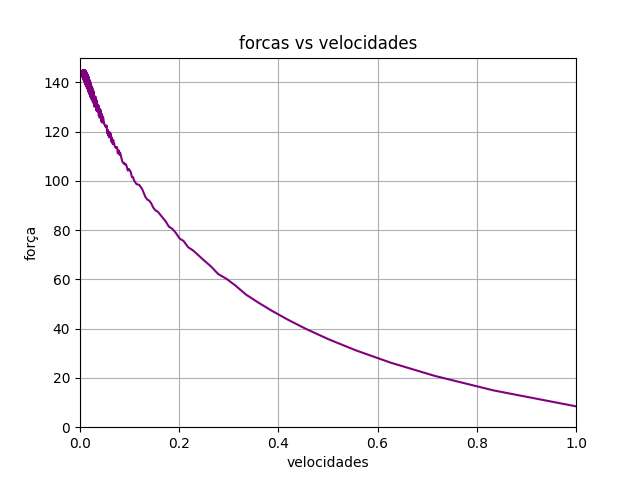
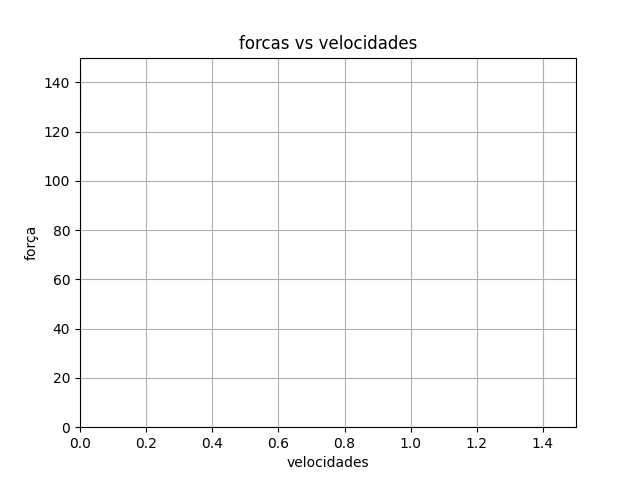
add modificaçoes

diff --git a/src/pages/Page_Calor/Verifica_A.jsx b/src/pages/Page_Calor/Verifica_A.jsx
@@ -1,9 +1,13 @@
 import React, { useState } from 'react';
+import InfoIcon from '../../components/Info';
+
+import coeficiente_angular from '../../assets/img/coeficiente_angular.png'
 
 function Verifica_A() {
   const [valorA, setValorA] = useState('');
   const [mensagem, setMensagem] = useState('');
   const [mensagemCor, setMensagemCor] = useState('');
+  
 
   const handleSubmit = (event) => {
     event.preventDefault();
@@ -25,7 +29,7 @@ function Verifica_A() {
       setMensagemCor('red');  // Define cor vermelha para mensagem de erro
     } else if (dentroMargemA) {
       setMensagem('Resposta correta ou aproximada: a = 37.24');
-      setMensagemCor('green');  // Define cor verde para resposta correta
+      setMensagemCor('#00ec36');  // Define cor verde para resposta correta
     } else {
       setMensagem('Resposta incorreta. Tente novamente.');
       setMensagemCor('red');  // Define cor vermelha para resposta incorreta
@@ -35,12 +39,13 @@ function Verifica_A() {
   return (
     <div style={{display: 'flex', flexDirection: 'column', justifyContent: 'center', height: '100%'}}>
       <div>
-        <form onSubmit={handleSubmit}>
+        <form style={{display: 'flex', flexDirection: 'column'}} onSubmit={handleSubmit}>
           <h2>Responda:</h2>
           <p style={{textIndent: '2em'}} htmlFor="campoA">
             Utilizando a fórmula do "Calor de Encurtamento", volte ao laboratório e, com os dados numéricos fornecidos, determine o valor da constante 𝑎. Essa constante representa a relação entre o encurtamento muscular e o calor liberado durante a contração.
           </p>
-          <div style={{ display: 'flex', width: '100%' }}>
+
+          <div style={{display: 'flex'}}> 
             <input
               style={{ width: '60%' }}
               type="text"
@@ -49,8 +54,18 @@ function Verifica_A() {
               onChange={(e) => setValorA(e.target.value)}
               placeholder="Digite o valor de a!"
             />
+
+          <InfoIcon style={{right: '22%', top: '33%'}}>
+          <div style={{display: 'flex', flexDirection: 'column', alignItems: 'center'}}>
+            <p style={{margin: '0px'}}>Coeficente angular m: </p>
+            <div className="img-fundoBranco" style={{alignItems: 'center', width: '100%', margin: '3%'}}>
+              <img src={coeficiente_angular} alt="coeficiente_angular" style={{ maxWidth: '50%', maxHeight: '100%' }} />
+            </div>
           </div>
-          <div style={{display: 'flex', marginTop: '10px'}}>
+          </InfoIcon>
+
+          </div>
+          <div style={{display: 'flex', marginTop: '10px', alignItems: 'center'}}>
             <div>
               <button type="submit">Enviar</button>
             </div>

diff --git a/src/pages/Page_Taxa_Energia/Verifica_BP0.jsx b/src/pages/Page_Taxa_Energia/Verifica_BP0.jsx
@@ -11,7 +11,7 @@ function Verifica_BP0() {
     event.preventDefault();
 
     // Valores esperados para 'a'
-    const valorEsperadoB = 0.335;
+    const valorEsperadoB = -0.335;
     const valorEsperadoP0 = 144.90;
 
     // Margem de erro
@@ -29,8 +29,8 @@ function Verifica_BP0() {
       setMensagem('Por favor, insira valores numéricos válidos!');
       setMensagemCor('red');  // Define cor vermelha para mensagem de erro
     } else if (dentroMargemA && dentroMargemP0) {
-      setMensagem('Resposta corretas ou aproximadas: b = 0.335 e P0 = 144.90');
-      setMensagemCor('green');  // Define cor verde para resposta correta
+      setMensagem('Resposta corretas ou aproximadas: 𝑏 = 0.335 e 𝑃0 = 144.90');
+      setMensagemCor('#00ec36');  // Define cor verde para resposta correta
     } else {
       setMensagem('Resposta incorreta. Tente novamente.');
       setMensagemCor('red');  // Define cor vermelha para resposta incorreta
@@ -65,7 +65,7 @@ function Verifica_BP0() {
               placeholder="Digite o valor de 𝑃0!"
             />
           </div>
-          <div style={{display: 'flex', marginTop: '10px'}}>
+          <div style={{display: 'flex', marginTop: '10px', alignItems: 'center'}}>
             <div>
               <button type="submit">Enviar</button>
             </div>

diff --git a/src/pages/Page_Forca_velocidade/Verifica_K.jsx b/src/pages/Page_Forca_velocidade/Verifica_K.jsx
@@ -8,8 +8,7 @@ function Verifica_K() {
   const handleSubmit = (event) => {
     event.preventDefault();
 
-    // Valores esperados para 'a'
-    const valorEsperadoK = 47.14;
+    const valorEsperadoK = 61.017879999609;
 
     // Margem de erro
     const margemErro = 0.5;
@@ -24,8 +23,8 @@ function Verifica_K() {
       setMensagem('Por favor, insira valores numéricos válidos!');
       setMensagemCor('red');  // Define cor vermelha para mensagem de erro
     } else if (dentroMargemK) {
-      setMensagem('Resposta correta ou aproximada: a = 37.24');
-      setMensagemCor('green');  // Define cor verde para resposta correta
+      setMensagem('Resposta correta ou aproximada: 𝑘 = 61.017879999609');
+      setMensagemCor('#00ec36');  // Define cor verde para resposta correta
     } else {
       setMensagem('Resposta incorreta. Tente novamente.');
       setMensagemCor('red');  // Define cor vermelha para resposta incorreta
@@ -50,7 +49,7 @@ function Verifica_K() {
               placeholder="Digite o valor de 𝑘!"
             />
           </div>
-          <div style={{display: 'flex', marginTop: '10px'}}>
+          <div style={{display: 'flex', marginTop: '10px', alignItems: 'center'}}>
             <div>
               <button type="submit">Enviar</button>
             </div>

diff --git a/src/pages/Page_Forca_Comprimento/Verifica_Alpha.jsx b/src/pages/Page_Forca_Comprimento/Verifica_Alpha.jsx
@@ -18,7 +18,7 @@ const VerificaAlpha = () => {
             setMensagemCor('red');  // Define cor vermelha para mensagem de erro
         } else if (dentroMargemA) {
             setMensagem('Respostas corretas ou aproximadas: α = 1449.027');
-            setMensagemCor('green');  // Define cor verde para resposta correta
+            setMensagemCor('#00ec36');  // Define cor verde para resposta correta
         } else {
             setMensagem('Respostas incorretas. Tente novamente.');
             setMensagemCor('red');  // Define cor vermelha para resposta incorreta
@@ -74,7 +74,7 @@ const VerificaAlpha = () => {
                   placeholder="Digite o valor de α !"
                 />
               </div>
-              <div style={{ display: 'flex', marginTop: '10px' }}>
+              <div style={{display: 'flex', marginTop: '10px', alignItems: 'center'}}>
                 <div>
                   <button type="submit">Enviar</button>
                 </div>

diff --git a/src/pages/Page_Taxa_Energia/Lab_Taxa_Energia.jsx b/src/pages/Page_Taxa_Energia/Lab_Taxa_Energia.jsx
@@ -40,7 +40,7 @@ const Lab_Taxa_Energia = () => {
   
       const df = JSON.parse(data.df);
       let formattedData = '';
-      formattedData += `P          dE\n`;
+      formattedData += `P           dE\n`;
   
       df.data.forEach((row, index) => {
         formattedData += `${row[0].toFixed(6)}   ${row[1].toFixed(6)} \n`;
@@ -109,7 +109,7 @@ const Lab_Taxa_Energia = () => {
                         type='range' 
                         id='' 
                         min='0.5' 
-                        max='5' 
+                        max='10' 
                         step='0.5' 
                         value={inputV}
                         onChange={(e) => setInputV(parseFloat(e.target.value))} // Define a função para atualizar o estado

diff --git a/src/pages/Page_Forca_velocidade/Lab_Forca_velocidade.jsx b/src/pages/Page_Forca_velocidade/Lab_Forca_velocidade.jsx
@@ -108,9 +108,9 @@ const Lab_Forca_velocidade = () => {
                         style={{width: '40%'}}
                         type='range' 
                         id='' 
-                        min='0.5' 
-                        max='5' 
-                        step='0.5' 
+                        min='0.4' 
+                        max='4' 
+                        step='0.4' 
                         value={inputV}
                         onChange={(e) => setInputV(parseFloat(e.target.value))} // Define a função para atualizar o estado
                     />

diff --git a/server/functions/Hill.py b/server/functions/Hill.py
@@ -86,30 +86,68 @@ class Hill_Model:
             taxa_Energia.append( (P[-1] + self.a) * vel )
 
         return taxa_Energia, forcas
+    
+    
+    def contracao_completa_isometrica(self, encurtamento):
+        L = np.linspace(1, 1 - encurtamento, self.steps)
 
+        return L
+    
+    def get_energia2(self, contracao, segs):
 
-    def get_Forca_vel(self, seg):
-
-        velocidades = []
+        taxa_Energia = []
         forcas = []
+    
+        segs_contracao = np.linspace(0.3836, segs, 10)
         
-        segs_contracao = np.linspace(seg, 100, self.steps)
+        print("AHAA: ", contracao)
         
-        for s in segs_contracao:
-            L, vel = self.calcular_contracao(0.5, s, s)
-            t = np.linspace(0, s, self.steps)
+        for i in segs_contracao:
+            L = self.contracao_completa_isometrica(contracao)
+            t = np.linspace(0, i, self.steps)
+            
+            vel = contracao/i
             
             if len(L) != len(t):
                 t = np.delete(t, -1)
                 
+            print(vel)
+            
             P, H, Lse, Lce = self.run_Hill(L, t)
             
-            print('vel: ', vel)
-  
+            taxa_Energia.append( (P[-1] + self.a) * vel )
+            
+            forcas.append( P[-1] )
+
+
+        return taxa_Energia, forcas
+
+
+    def get_Forca_vel(self, contracao, seg):
+
+        velocidades = []
+        forcas = []
+        
+        segs_contracao = np.linspace(10, seg, 50)        
+        
+        for i in segs_contracao:
+            L = self.contracao_completa_isometrica(contracao)
+            t = np.linspace(0, i, self.steps)
+            
+            vel = contracao/i
+            
+            if len(L) != len(t):
+                t = np.delete(t, -1)
+                
+            print('vel: ', vel)   
+            
+            P, H, Lse, Lce = self.run_Hill(L, t)
+
             velocidades.append(vel)
             forcas.append(P[-1])
 
         return velocidades, forcas
+
 
     def Lab_forca_comprimento(self, encurtamento, segs_contracao):
         L, vel_contraca = self.calcular_contracao(encurtamento, segs_contracao, segs_exp=5)
@@ -233,11 +271,11 @@ class Hill_Model:
     
     def taxa_Energia(self, encurtamento, segs_contracao):
 
-        if encurtamento == 0:
-            segs_contracao = 100 
+        # if encurtamento == 0:
+        #     segs_contracao = 100 
 
 
-        taxa_Energia, forcas = self.get_energia(segs_contracao)
+        taxa_Energia, forcas = self.get_energia2(encurtamento, segs_contracao)
         
         
         current_directory = os.getcwd()
@@ -273,11 +311,11 @@ class Hill_Model:
     
     def Forca_velocidade(self, encurtamento, segs_contracao):
         
-        if encurtamento == 0:
-            segs_contracao = 100
+        # if encurtamento == 0:
+        #     segs_contracao = 100
 
-
-        velocidades, forcas = self.get_Forca_vel(segs_contracao)
+        print()
+        velocidades, forcas = self.get_Forca_vel(encurtamento, segs_contracao)
         
         
         current_directory = os.getcwd()
@@ -297,7 +335,7 @@ class Hill_Model:
         ax1.set_title('forcas vs velocidades')
         ax1.grid(True)
 
-        ax1.set_xlim([0, 1])
+        ax1.set_xlim([0, 1.5])
         ax1.set_ylim([0, 150])
 
         plt.savefig(os.path.join(save_path, 'Forca_velocidade.png'))

diff --git a/server/server.py b/server/server.py
@@ -164,7 +164,7 @@ def Forca_velocidade():
             
             
             if old_x != new_x or old_v != new_v:
-                #print("x: ", x)
+                print("x: ", x)
                 df = modelo.Forca_velocidade(x, vel)        
                 df_json = df.to_json(orient='split')
                 
